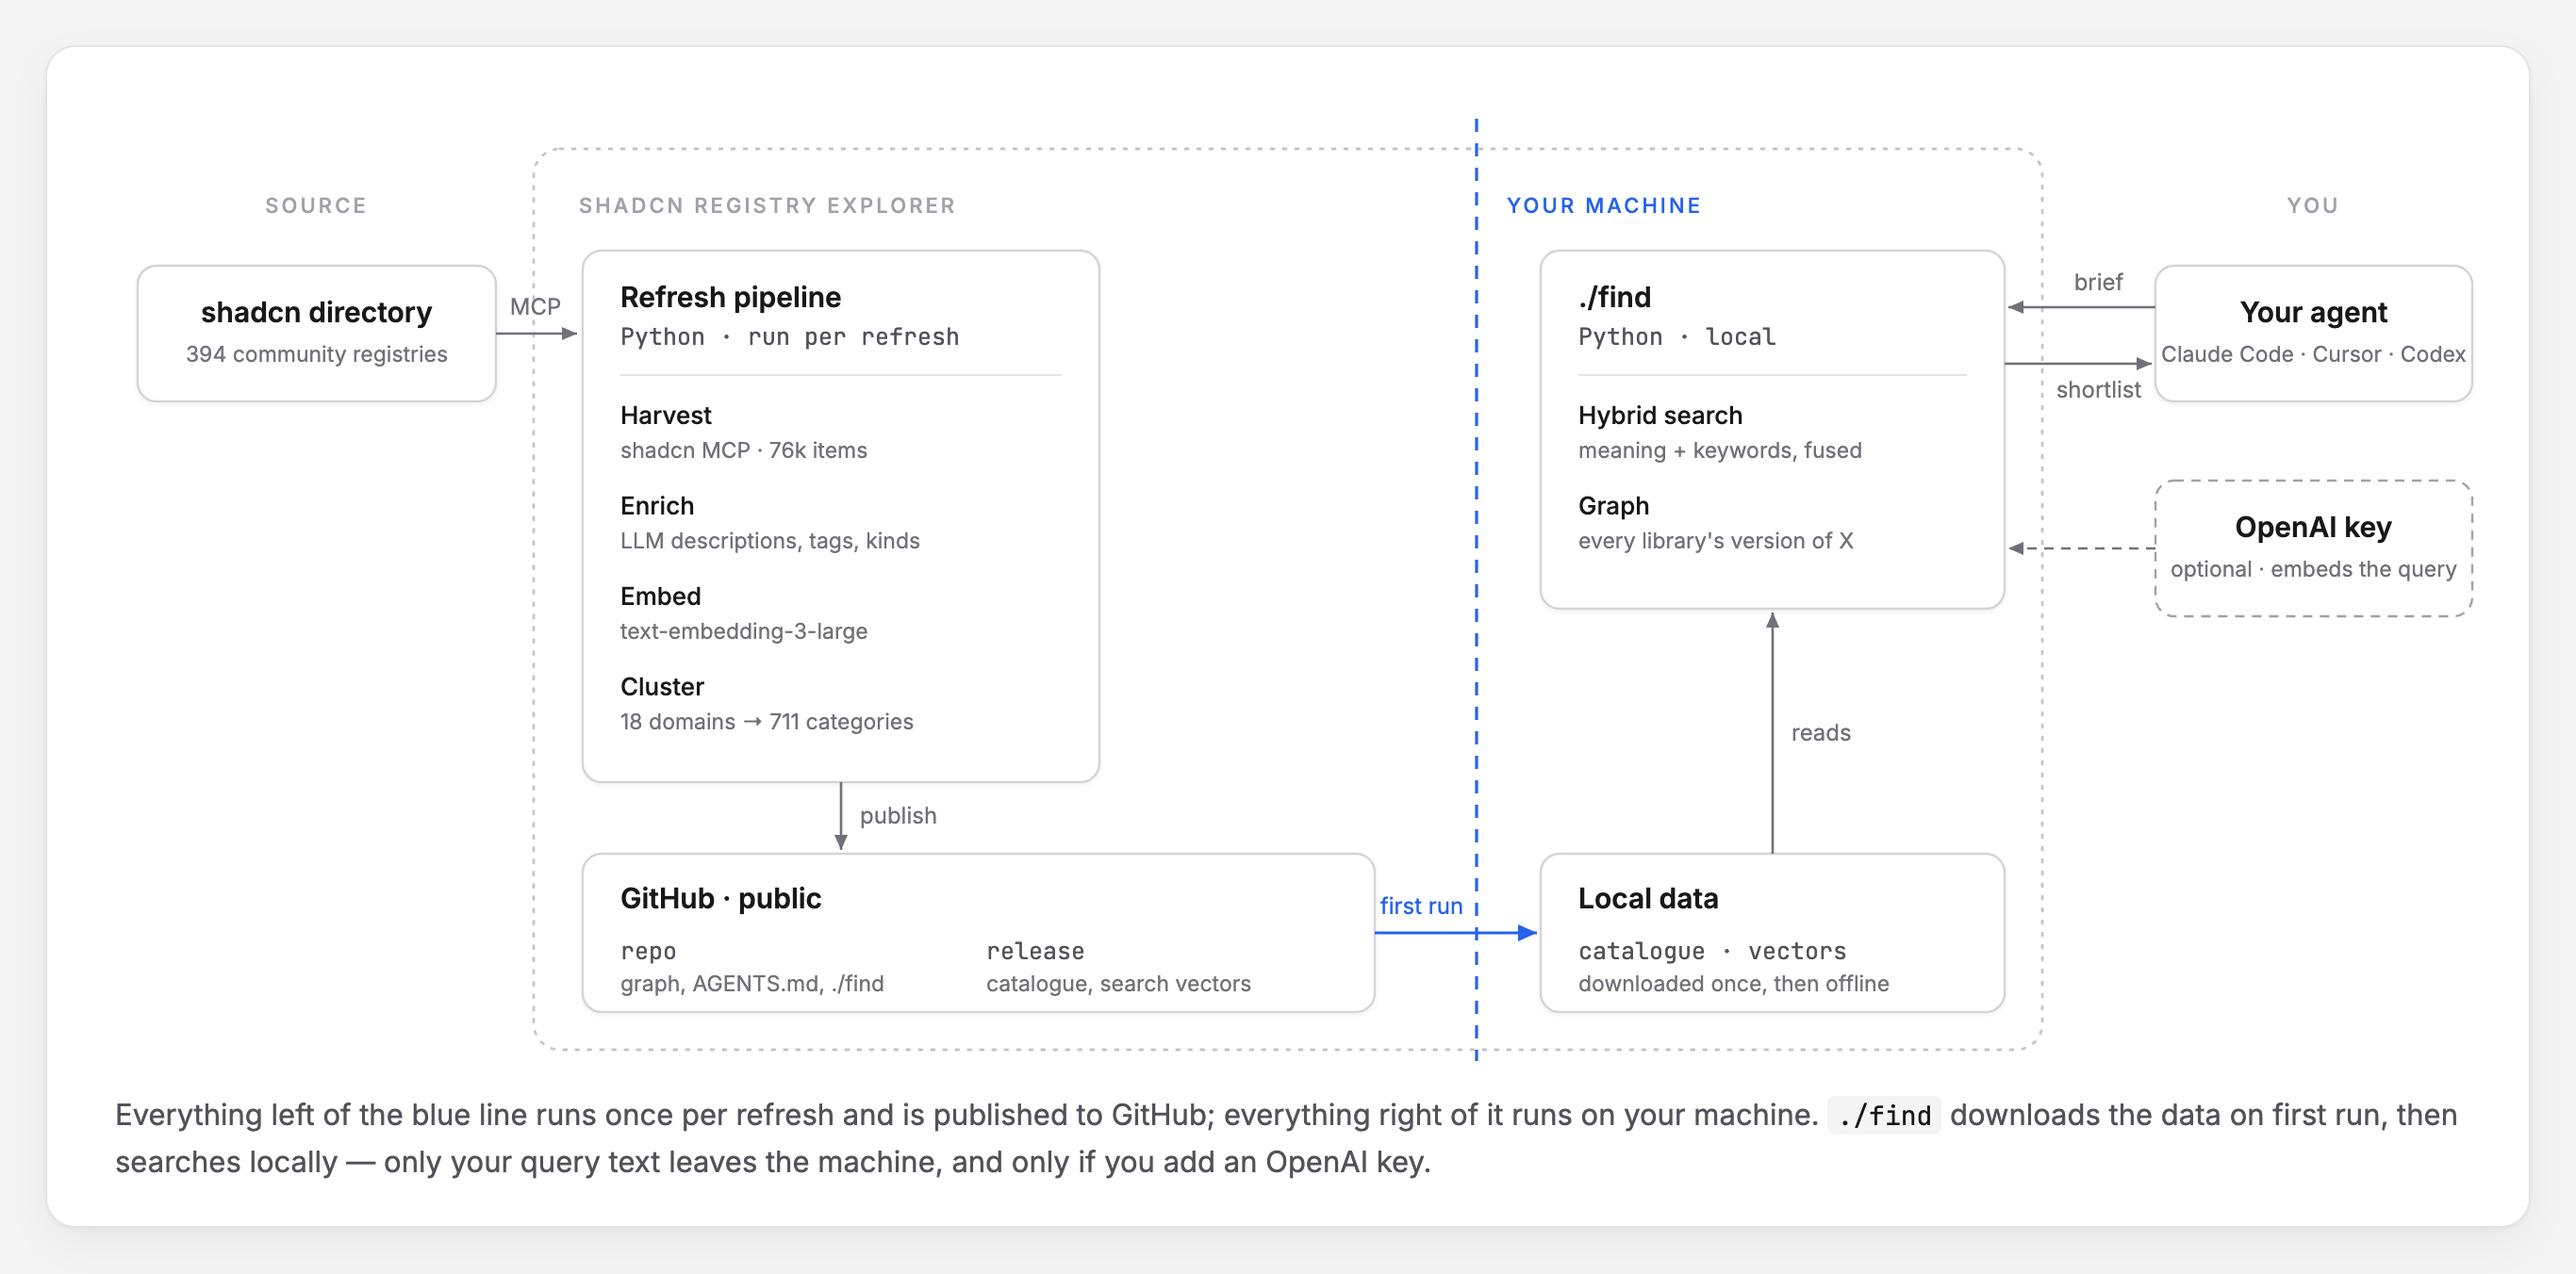
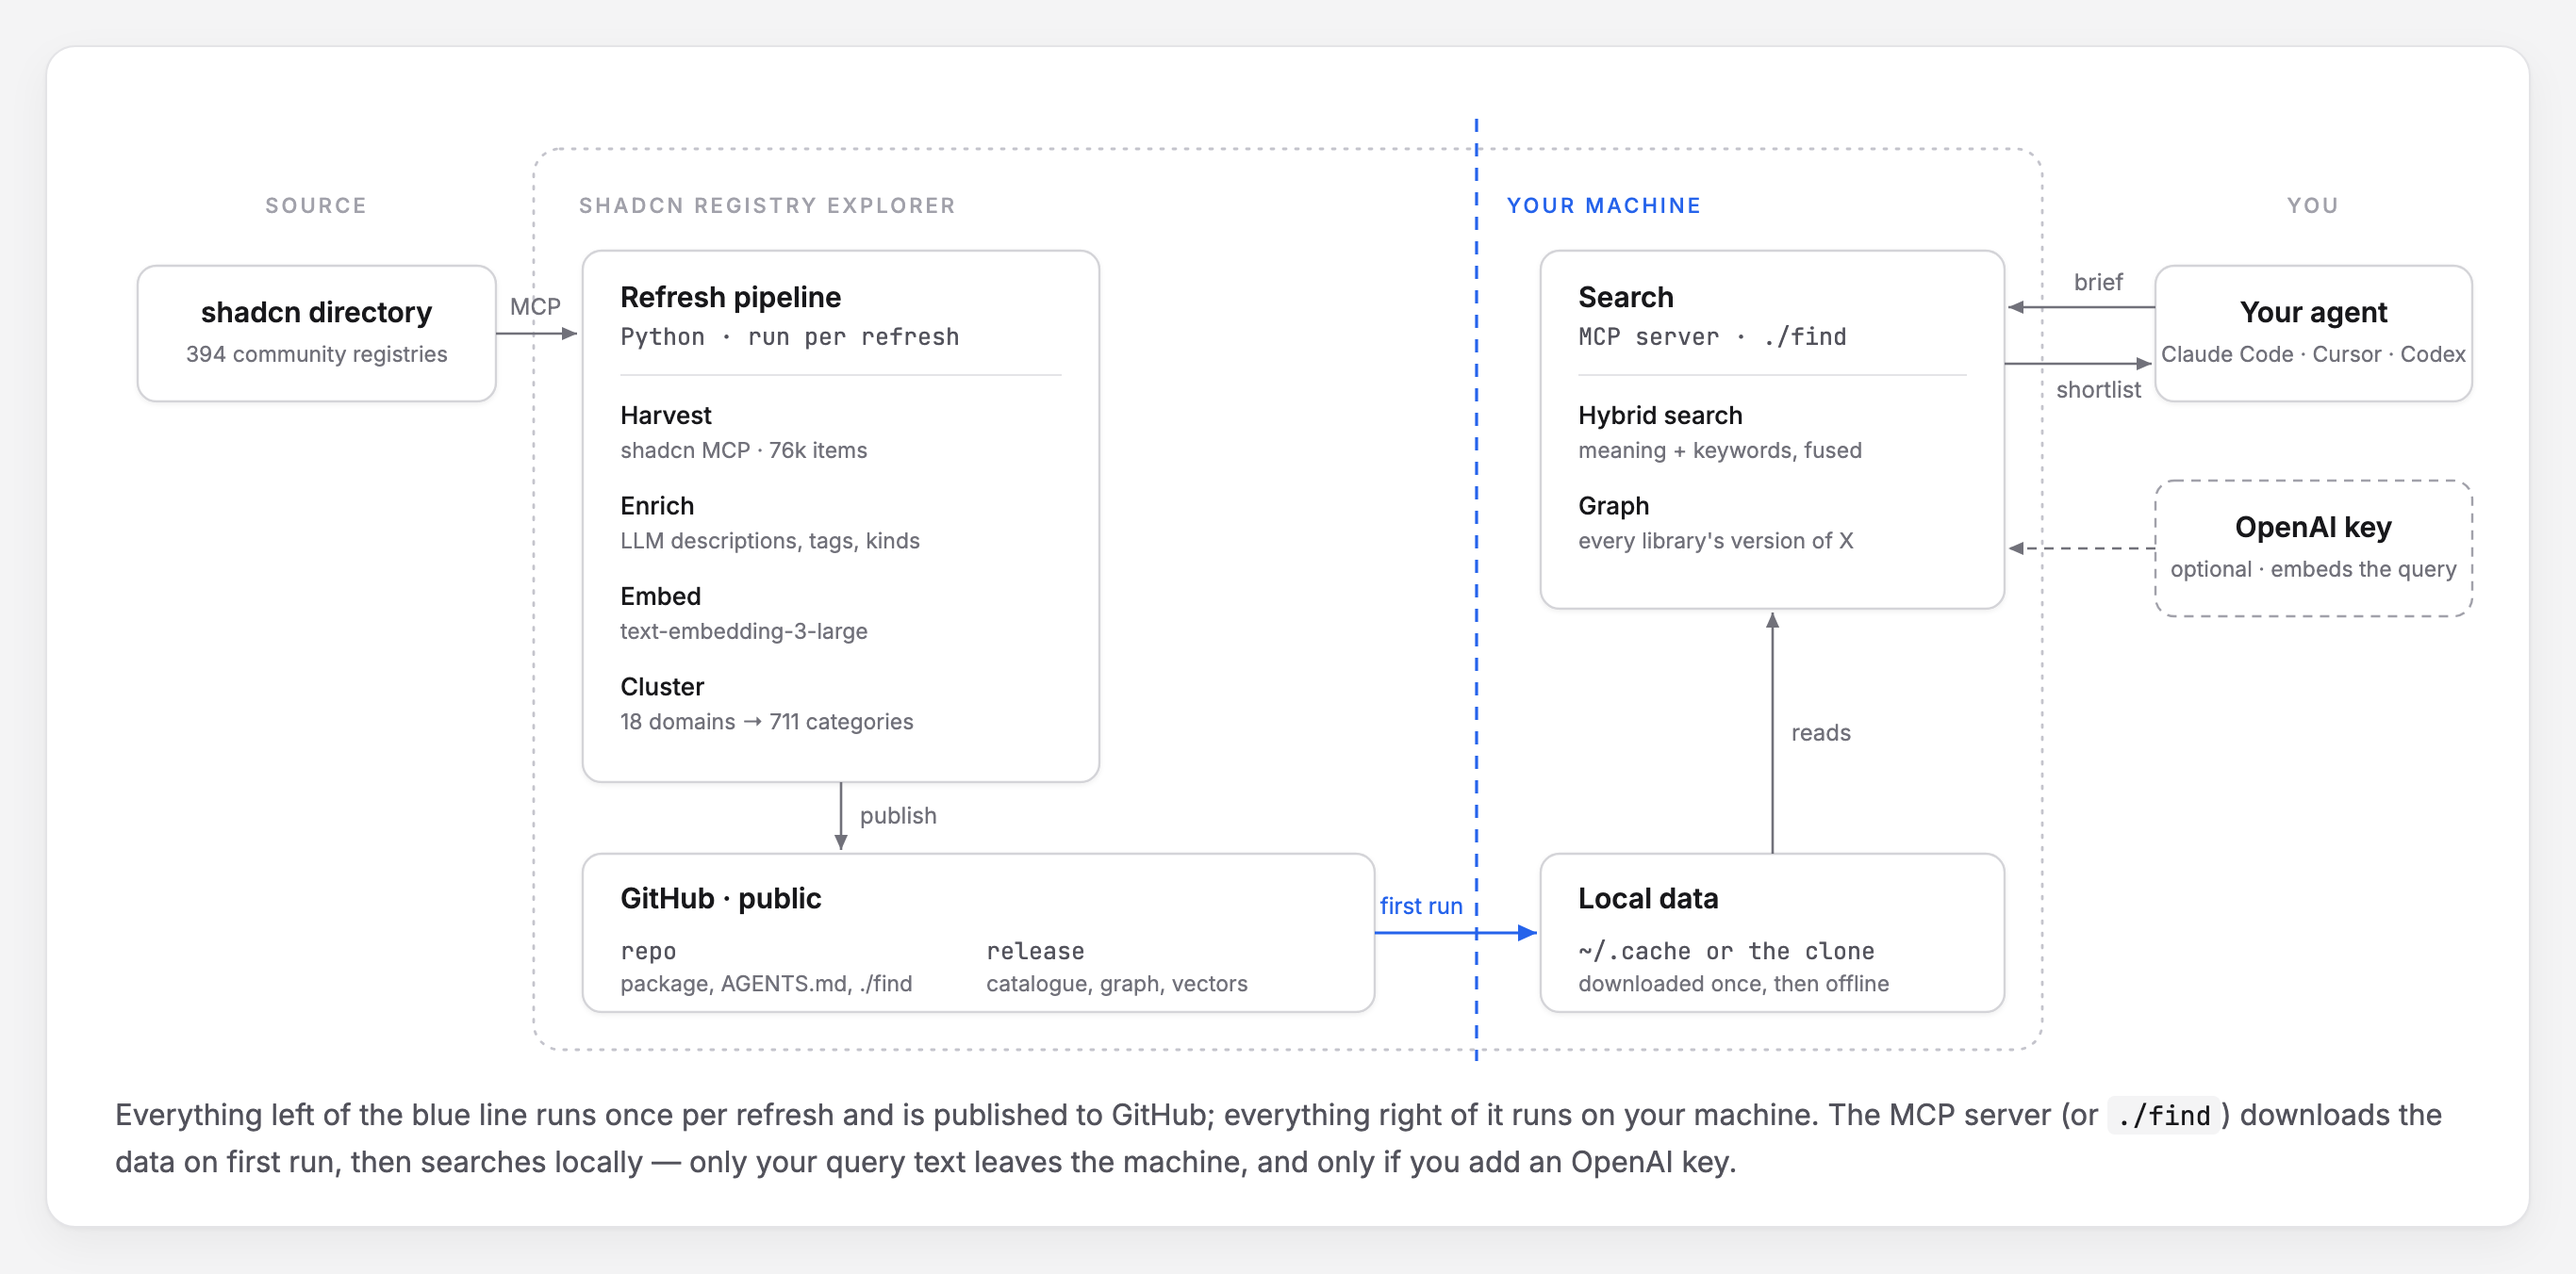
README + diagram: show the MCP server path (#8)
- diagram: Search box = MCP server · ./find; release holds catalogue,
  graph, vectors; local data lives in ~/.cache or the clone
- README: 'No OpenAI key? Drop -e …'; graph bullet names browse_category

diff --git a/docs/architecture.html b/docs/architecture.html
@@ -87,9 +87,9 @@
   <rect class="box" filter="url(#sh)" x="276" y="420" width="420" height="84" rx="10"/>
   <text class="t" x="296" y="449">GitHub · public</text>
   <text class="m" x="296" y="476">repo</text>
-  <text class="d" x="296" y="493">graph, AGENTS.md, ./find</text>
+  <text class="d" x="296" y="493">package, AGENTS.md, ./find</text>
   <text class="m" x="490" y="476">release</text>
-  <text class="d" x="490" y="493">catalogue, search vectors</text>
+  <text class="d" x="490" y="493">catalogue, graph, vectors</text>
 
   <!-- first run (crosses the line) -->
   <path class="arrow accent" marker-end="url(#b)" d="M696,462 L782,462"/>
@@ -98,7 +98,7 @@
   <!-- local data -->
   <rect class="box" filter="url(#sh)" x="784" y="420" width="246" height="84" rx="10"/>
   <text class="t" x="804" y="449">Local data</text>
-  <text class="m" x="804" y="476">catalogue · vectors</text>
+  <text class="m" x="804" y="476">~/.cache or the clone</text>
   <text class="d" x="804" y="493">downloaded once, then offline</text>
 
   <path class="arrow" marker-end="url(#a)" d="M907,420 L907,292"/>
@@ -106,8 +106,8 @@
 
   <!-- find -->
   <rect class="box" filter="url(#sh)" x="784" y="100" width="246" height="190" rx="10"/>
-  <text class="t" x="804" y="130">./find</text>
-  <text class="m" x="804" y="150">Python · local</text>
+  <text class="t" x="804" y="130">Search</text>
+  <text class="m" x="804" y="150">MCP server · ./find</text>
   <line x1="804" y1="166" x2="1010" y2="166" stroke="#e4e4e7"/>
   <text class="s" x="804" y="192">Hybrid search</text>
   <text class="d" x="804" y="210">meaning + keywords, fused</text>
@@ -130,7 +130,7 @@
   <path class="arrow dash" marker-end="url(#a)" d="M1110,258 L1032,258"/>
 </svg>
 <p class="caption">Everything left of the blue line runs once per refresh and is published to GitHub; everything right of it
-runs on your machine. <code>./find</code> downloads the data on first run, then searches locally — only your query
+runs on your machine. The MCP server (or <code>./find</code>) downloads the data on first run, then searches locally — only your query
 text leaves the machine, and only if you add an OpenAI key.</p>
 </div>
 </body>

diff --git a/scripts/build_readme.py b/scripts/build_readme.py
@@ -36,8 +36,8 @@ R = [
     "**As an MCP server** (Claude Code, Cursor, Codex, …; needs [uv](https://docs.astral.sh/uv/)):\n",
     "```bash\nclaude mcp add shadcn-explorer -s user -e OPENAI_API_KEY=sk-... -- \\\n"
     "  uvx --from git+https://github.com/olyaee/shadcn-registry-explorer shadcn-explorer-mcp\n```\n",
-    "Other clients: command `uvx`, args `--from git+https://github.com/olyaee/shadcn-registry-explorer "
-    "shadcn-explorer-mcp`, env `OPENAI_API_KEY` (optional). Then ask: *\"find components to build a fairness "
+    "No OpenAI key? Drop `-e …`. Other clients: command `uvx`, args "
+    "`--from git+https://github.com/olyaee/shadcn-registry-explorer shadcn-explorer-mcp`. Then ask: *\"find components to build a fairness "
     "dashboard\"*. Data (~260 MB) downloads in the background on first start.\n",
     "**Or clone** and point any agent at the folder ([`AGENTS.md`](AGENTS.md)), or search yourself: "
     "`./find \"grouped bar chart\"`, `./find graph category \"Kanban Board\"`.\n",
@@ -46,7 +46,8 @@ R = [
     "- **Search** ranks items by meaning and keywords. The OpenAI key is optional: it embeds your query "
     "(fraction of a cent) so \"billing toggle\" also finds a \"monthly/annual switch\"; without it, "
     "search matches keywords only.\n"
-    "- **Graph** groups equivalent components across libraries, so `find graph` lists every version of one.\n",
+    "- **Graph** groups equivalent components across libraries, so `browse_category` (MCP) or "
+    "`./find graph category` lists every version of one.\n",
     "[All registries](REGISTRIES.md) · [MIT](LICENSE) — components belong to their authors.\n",
 ]
 open("README.md", "w").write("\n".join(R) + "\n")

diff --git a/README.md b/README.md
@@ -11,7 +11,7 @@ claude mcp add shadcn-explorer -s user -e OPENAI_API_KEY=sk-... -- \
   uvx --from git+https://github.com/olyaee/shadcn-registry-explorer shadcn-explorer-mcp
 ```
 
-Other clients: command `uvx`, args `--from git+https://github.com/olyaee/shadcn-registry-explorer shadcn-explorer-mcp`, env `OPENAI_API_KEY` (optional). Then ask: *"find components to build a fairness dashboard"*. Data (~260 MB) downloads in the background on first start.
+No OpenAI key? Drop `-e …`. Other clients: command `uvx`, args `--from git+https://github.com/olyaee/shadcn-registry-explorer shadcn-explorer-mcp`. Then ask: *"find components to build a fairness dashboard"*. Data (~260 MB) downloads in the background on first start.
 
 **Or clone** and point any agent at the folder ([`AGENTS.md`](AGENTS.md)), or search yourself: `./find "grouped bar chart"`, `./find graph category "Kanban Board"`.
 
@@ -20,7 +20,7 @@ Other clients: command `uvx`, args `--from git+https://github.com/olyaee/shadcn-
 ![How it works](docs/architecture.png)
 
 - **Search** ranks items by meaning and keywords. The OpenAI key is optional: it embeds your query (fraction of a cent) so "billing toggle" also finds a "monthly/annual switch"; without it, search matches keywords only.
-- **Graph** groups equivalent components across libraries, so `find graph` lists every version of one.
+- **Graph** groups equivalent components across libraries, so `browse_category` (MCP) or `./find graph category` lists every version of one.
 
 [All registries](REGISTRIES.md) · [MIT](LICENSE) — components belong to their authors.
 
